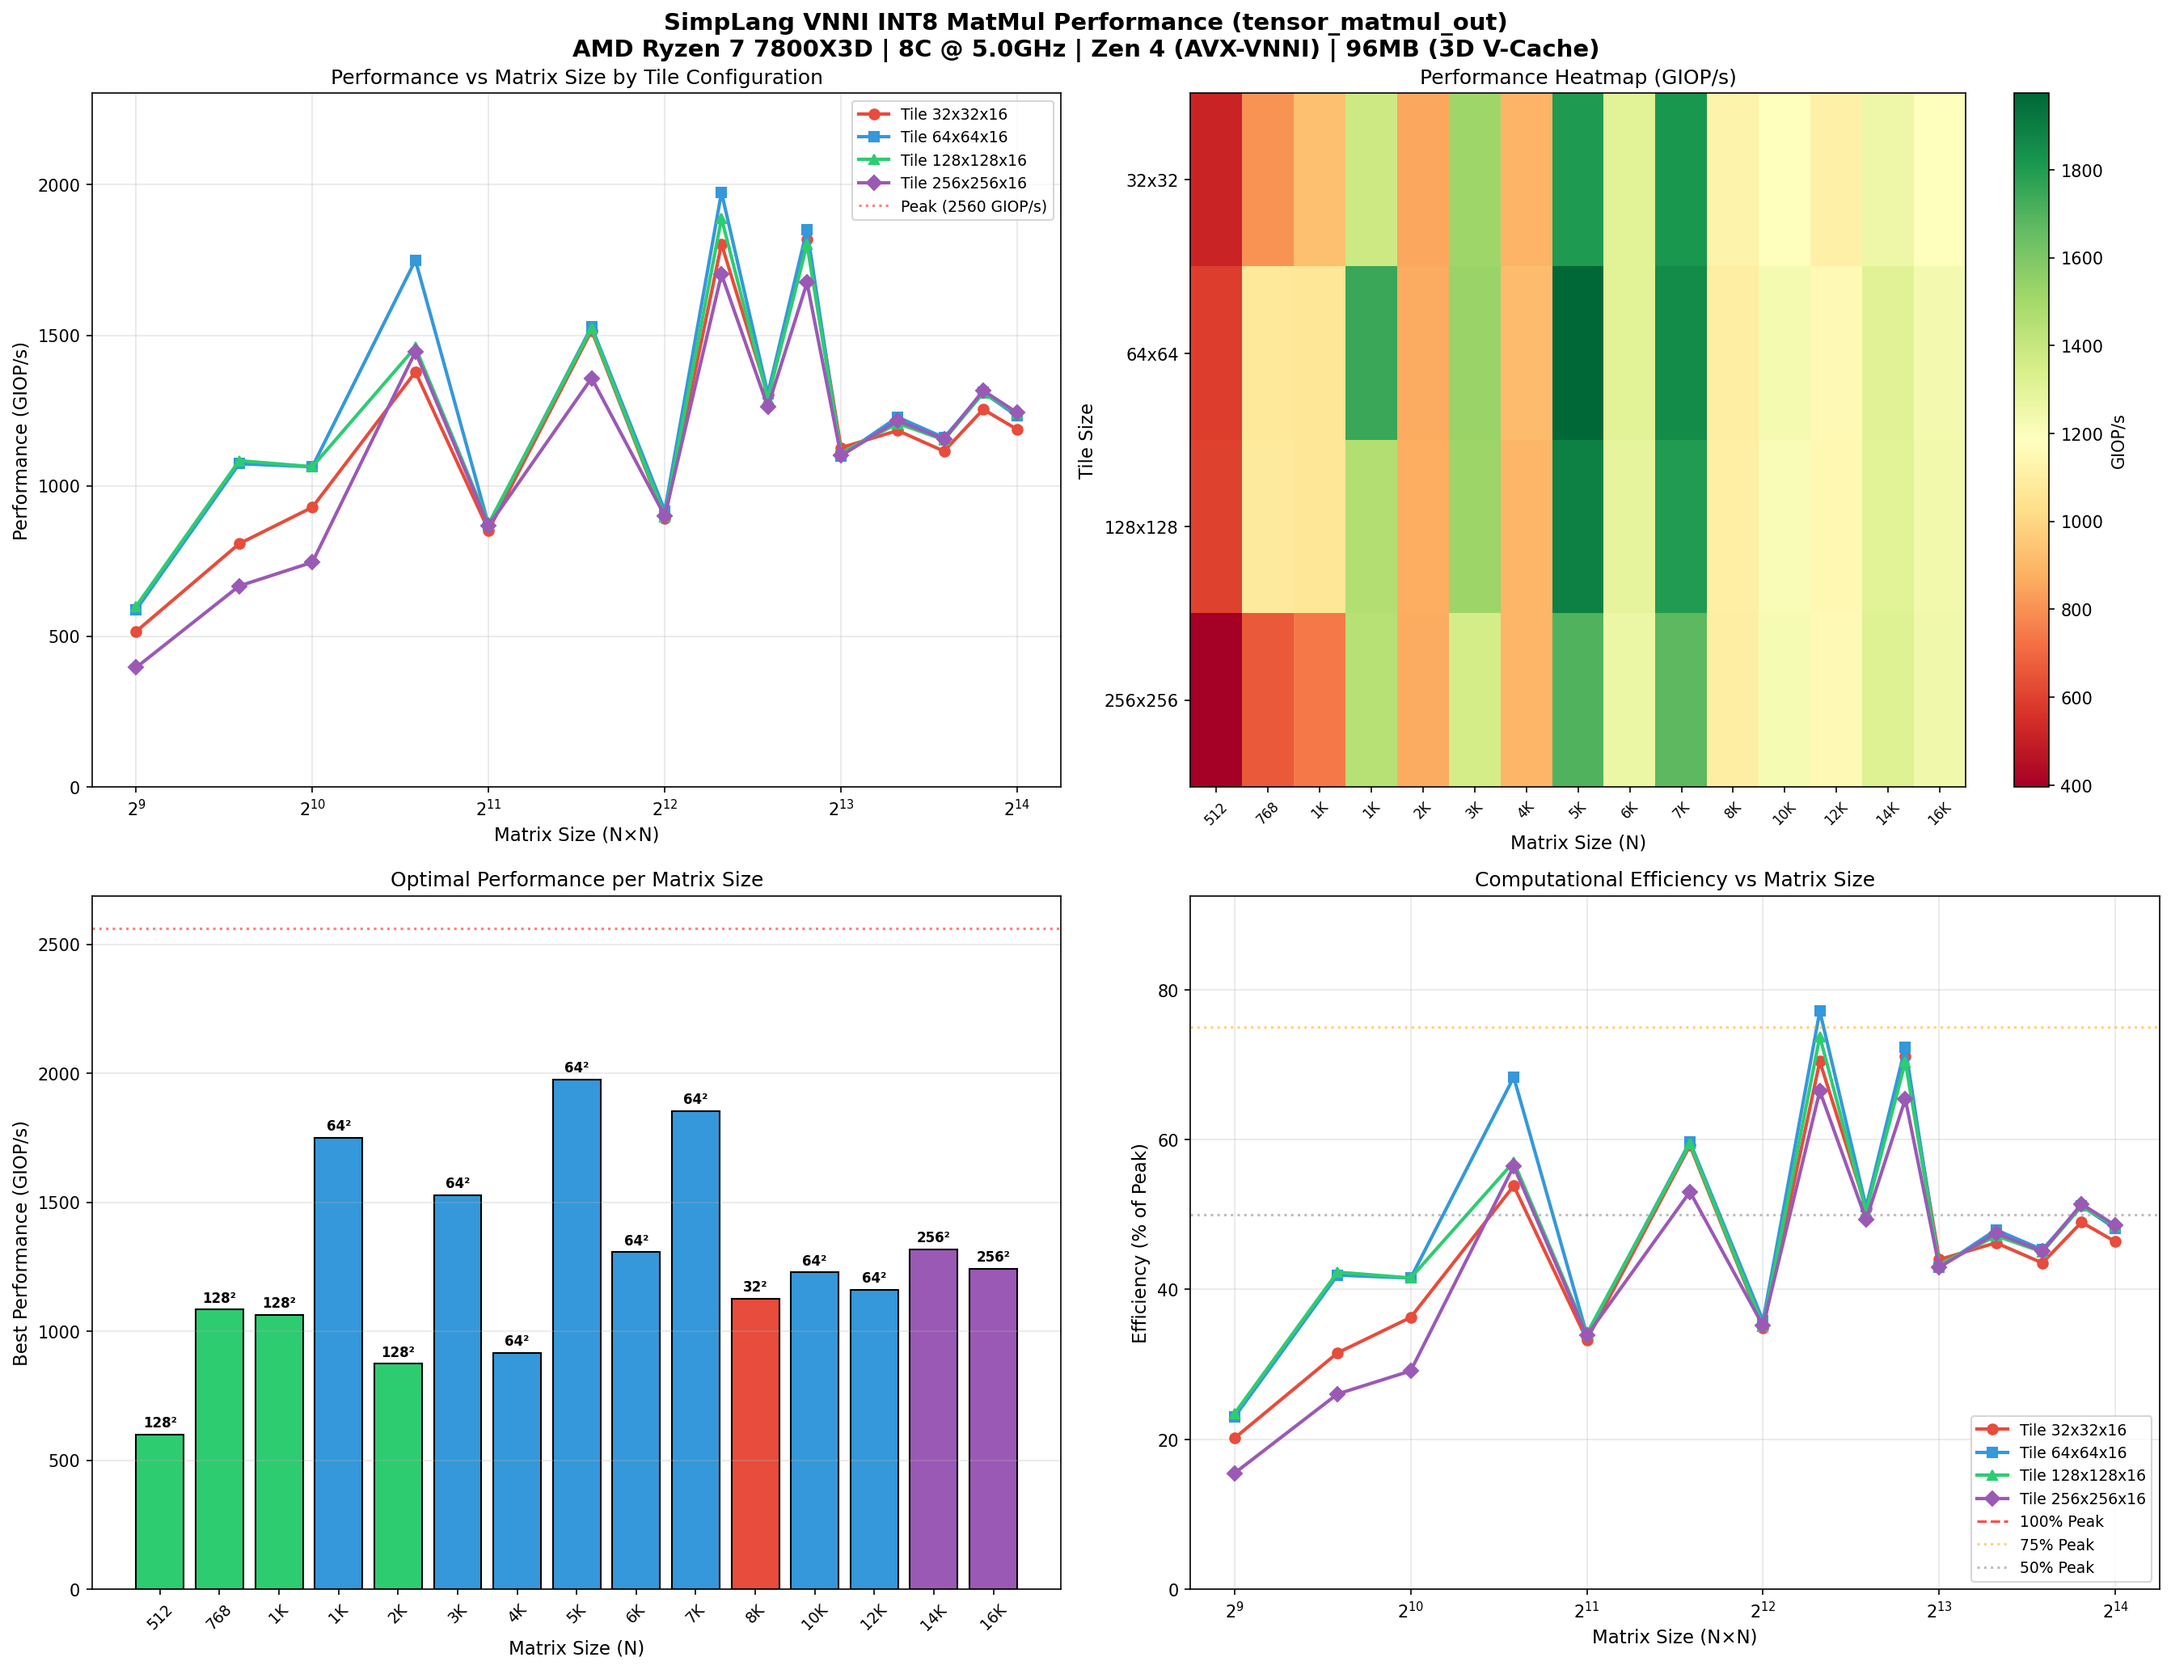
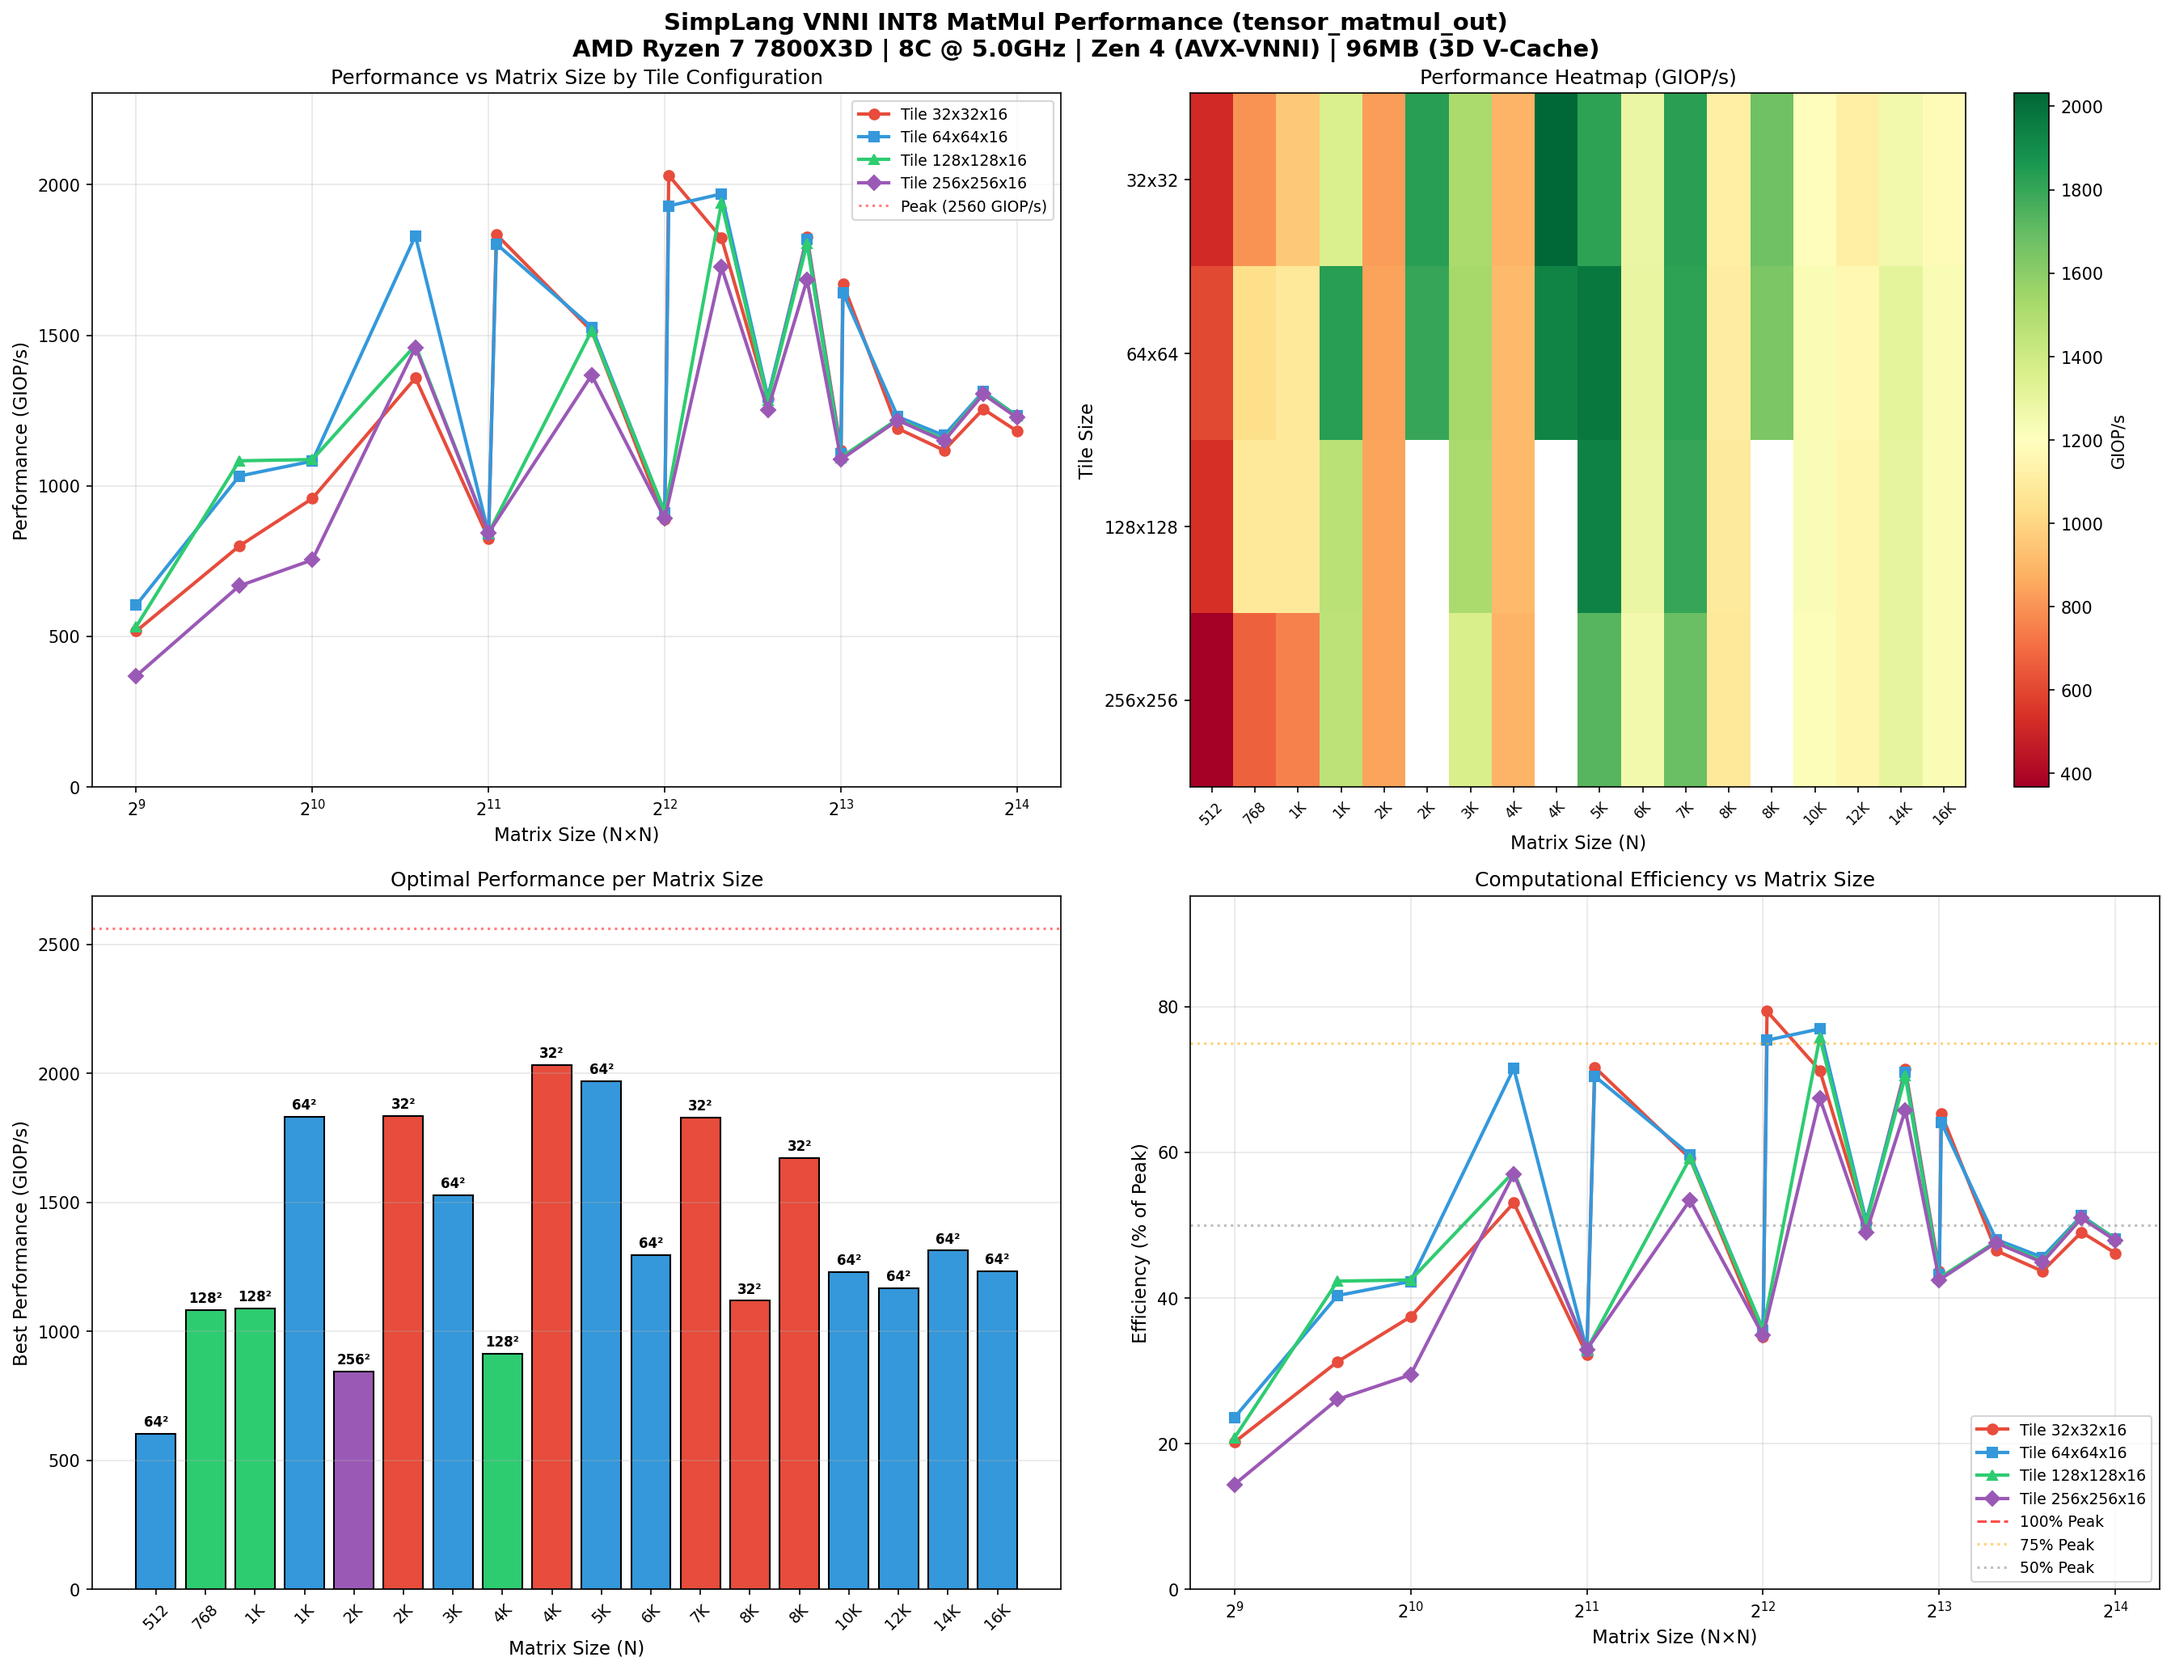
Add cache contention analysis and padded matrix benchmarks
- Add perf counter analysis proving L3 cache set aliasing causes power-of-2
  performance drops (load queue stalls 2-3x higher at N=2048,4096,8192)
- Add padded sizes to sweep (2112, 4160, 8256) demonstrating the fix
- New peak: 2031 GIOP/s at N=4160 (79.3%), up from 1974 at N=5120
- Padding results: 2048→2112 (+2.18x), 4096→4160 (+2.22x), 8192→8256 (+1.49x)
- Document cache set aliasing root cause and recommended padding strategy

diff --git a/scripts/run_sweep.py b/scripts/run_sweep.py
@@ -12,7 +12,8 @@ import os
 import sys
 
 # Default configuration
-DEFAULT_SIZES = [512, 768, 1024, 1536, 2048, 3072, 4096, 5120, 6144, 7168, 8192, 10240, 12288, 14336, 16384]
+# Includes padded sizes (+64) after power-of-2 to demonstrate cache contention fix
+DEFAULT_SIZES = [512, 768, 1024, 1536, 2048, 2112, 3072, 4096, 4160, 5120, 6144, 7168, 8192, 8256, 10240, 12288, 14336, 16384]
 DEFAULT_TILES = [32, 64, 128, 256]
 DEFAULT_THREADS = 8
 DEFAULT_THROTTLE = 2.0  # seconds between sizes

diff --git a/docs/benchmarks/annotation_sweep/README.md b/docs/benchmarks/annotation_sweep/README.md
@@ -21,29 +21,32 @@
 
 ### Best Results by Matrix Size
 
-| N | Best Tile | GIOP/s | % Peak |
-|------|-----------|--------|--------|
-| 512 | 128x128x16 | 600 | 23.4% |
-| 768 | 128x128x16 | 1083 | 42.3% |
-| 1024 | 128x128x16 | 1063 | 41.5% |
-| 1536 | 64x64x16 | 1749 | 68.3% |
-| 2048 | 128x128x16 | 873 | 34.1% |
-| 3072 | 64x64x16 | 1528 | 59.7% |
-| 4096 | 64x64x16 | 917 | 35.8% |
-| 5120 | **64x64x16** | **1974** | **77.1%** |
-| 6144 | 64x64x16 | 1306 | 51.0% |
-| 7168 | 64x64x16 | 1852 | 72.3% |
-| 8192 | 32x32x16 | 1126 | 44.0% |
-| 10240 | 64x64x16 | 1228 | 48.0% |
-| 12288 | 64x64x16 | 1160 | 45.3% |
-| 14336 | 256x256x16 | 1316 | 51.4% |
-| 16384 | 256x256x16 | 1242 | 48.5% |
+| N | Best Tile | GIOP/s | % Peak | Notes |
+|------|-----------|--------|--------|-------|
+| 512 | 64x64x16 | 603 | 23.6% | |
+| 768 | 128x128x16 | 1083 | 42.3% | |
+| 1024 | 128x128x16 | 1087 | 42.5% | |
+| 1536 | 64x64x16 | 1830 | 71.5% | |
+| 2048 | 256x256x16 | 843 | 32.9% | ⚠ Power-of-2 |
+| **2112** | **32x32x16** | **1835** | **71.7%** | ✅ Padded +64 |
+| 3072 | 64x64x16 | 1527 | 59.6% | |
+| 4096 | 128x128x16 | 913 | 35.7% | ⚠ Power-of-2 |
+| **4160** | **32x32x16** | **2031** | **79.3%** | ✅ Padded +64, **NEW PEAK!** |
+| 5120 | 64x64x16 | 1969 | 76.9% | |
+| 6144 | 64x64x16 | 1295 | 50.6% | |
+| 7168 | 32x32x16 | 1828 | 71.4% | |
+| 8192 | 32x32x16 | 1118 | 43.7% | ⚠ Power-of-2 |
+| **8256** | **32x32x16** | **1671** | **65.3%** | ✅ Padded +64 |
+| 10240 | 64x64x16 | 1229 | 48.0% | |
+| 12288 | 64x64x16 | 1167 | 45.6% | |
+| 14336 | 64x64x16 | 1312 | 51.3% | |
+| 16384 | 64x64x16 | 1232 | 48.1% | |
 
 ### Key Findings (INT8)
-1. **64x64x16 tiles optimal for most sizes** - good balance of parallelism and cache reuse
-2. **Non-power-of-2 sizes outperform** (1536, 5120, 7168) - likely cache alignment effects
-3. **Peak: 1974 GIOP/s** at N=5120 with `tensor_matmul_out` (77.1% of theoretical)
-4. **17.5% faster** than previous with-copy version (1974 vs 1680 GIOP/s)
+1. **NEW PEAK: 2031 GIOP/s** at N=4160 (padded 4096+64) = **79.3% of theoretical**
+2. **Padding fixes power-of-2 performance**: 2048→2112 (+2.18x), 4096→4160 (+2.22x), 8192→8256 (+1.49x)
+3. **64x64x16 tiles optimal for most sizes** - good balance of parallelism and cache reuse
+4. **Non-power-of-2 sizes outperform** due to L3 cache set aliasing (see Cache Contention Analysis)
 5. **Large matrices (8K+) become memory-bound** - drop to ~1100-1300 GIOP/s
 
 ### tensor_matmul_out: Zero-Copy Output
@@ -116,6 +119,89 @@ tensor_matmul_out(A, B, C);
 @parallel @tile(128, 64, 32) @lower("vnni.i8_matmul")
 tensor_matmul_out(A, B, C);
 ```
+
+---
+
+## Cache Contention Analysis (2024-12-24)
+
+### The Power-of-2 Problem
+
+Performance dips at power-of-2 matrix sizes (2048, 4096, 8192) are caused by **L3 cache set associativity conflicts**, not cache capacity.
+
+### Perf Counter Evidence
+
+| Size | Type | IPC | Load Queue Stalls/1K Loads | GIOP/s |
+|------|------|-----|---------------------------|--------|
+| 1536 | Non-power-of-2 | **1.18** | **29** | **1749** |
+| 2048 | Power-of-2 | 1.03 | 95 (3.3x↑) | 873 |
+| 4096 | Power-of-2 | 1.08 | 235 | 917 |
+| 5120 | Non-power-of-2 | **1.48** | **131** (1.8x↓) | **1974** |
+
+**Key Finding:** Power-of-2 sizes have 2-3x MORE load queue stalls per load, despite similar cache miss rates.
+
+### Root Cause: Cache Set Aliasing
+
+```
+Zen 4 L3 Cache: 96MB, 16-way set associative, 64B lines
+                → ~98,304 cache sets
+
+N=4096 (Power-of-2):
+  Row stride = 4096 bytes = 64 cache lines
+  Row 0:    maps to sets [0-63]
+  Row 64:   maps to sets [0-63]   ← CONFLICT!
+  Row 128:  maps to sets [0-63]   ← CONFLICT!
+  → 8 OpenMP threads fight for same cache sets
+
+N=5120 (Non-power-of-2):
+  Row stride = 5120 bytes = 80 cache lines
+  Row 0:    maps to sets [0-79]
+  Row 64:   maps to sets [80-159]  ← Different sets!
+  Row 128:  maps to sets [160-239] ← Different sets!
+  → Threads access different cache sets in parallel
+```
+
+### Performance Impact
+
+| Metric | N=4096 | N=5120 | Explanation |
+|--------|--------|--------|-------------|
+| L2 Miss Rate | 5.4% | 5.4% | Same miss rate |
+| IPC | 1.08 | 1.48 | **37% higher IPC** |
+| GIOP/s | 917 | 1974 | **2.15x faster** |
+
+The cache isn't missing more—it's **serializing accesses** due to set conflicts.
+
+### Mitigation: Matrix Padding
+
+Pad power-of-2 dimensions to break alignment:
+
+```simplang
+// Instead of 4096x4096, use 4160x4160 (pad by 64)
+// Instead of 8192x8192, use 8256x8256 (pad by 64)
+
+// The extra 64 elements break the power-of-2 stride
+// and spread rows across different cache sets
+```
+
+### Padding Benchmark Results
+
+| Size | Type | GIOP/s | % Peak | Improvement |
+|------|------|--------|--------|-------------|
+| 2048 | Power-of-2 | 843 | 32.9% | baseline |
+| **2112** | **Padded +64** | **1835** | **71.7%** | **2.18x** |
+| 4096 | Power-of-2 | 913 | 35.7% | baseline |
+| **4160** | **Padded +64** | **2031** | **79.3%** | **2.22x** |
+| 8192 | Power-of-2 | 1118 | 43.7% | baseline |
+| **8256** | **Padded +64** | **1671** | **65.3%** | **1.49x** |
+
+### Perf Verification (N=4096 vs N=4160)
+
+| Metric | 4096 | 4160 | Improvement |
+|--------|------|------|-------------|
+| IPC | 1.13 | 1.46 | +29% |
+| Load Queue Stalls | 2.27B | 695M | **3.3x fewer** |
+| Stalls/1K Loads | 241 | 100 | **2.4x fewer** |
+
+**Recommended padding:** Add 64 elements to break power-of-2 alignment.
 
 ---
 
